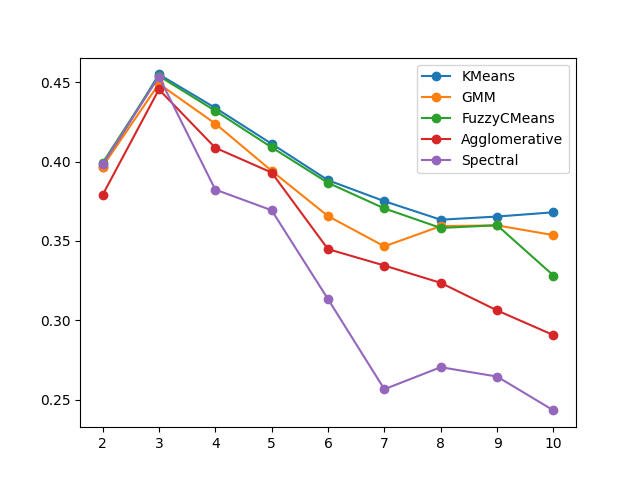
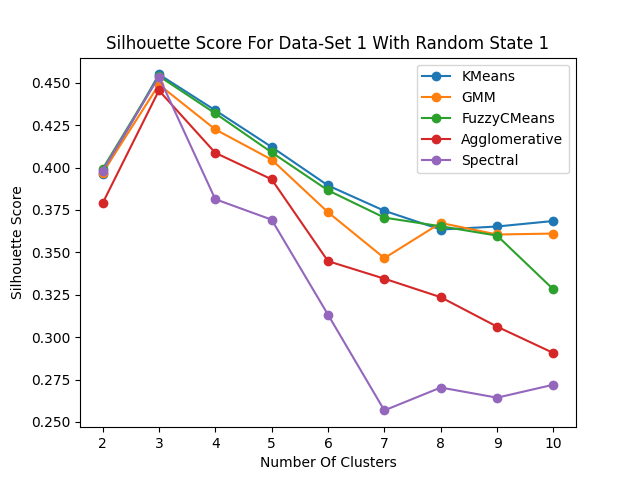
Plots

diff --git a/Code/FitExternalClass.py b/Code/FitExternalClass.py
@@ -1,20 +1,18 @@
 import os
+
+import matplotlib.pyplot as plt
 import pandas as pd
-from DataSet1 import DataSet1
-from DataSet2 import DataSet2
-from DataSet3 import DataSet3
-from GMM import GMMAlgorithm
-from FuzzyCMeans import FuzzyCMeansAlgorithm
-from KMeans import KMeansAlgorithm
-from AgglomerativeClustering import AgglomerativeClusteringAlgorithm
-from SpectralClustering import SpectralClusteringAlgorithm
+
+import ClusteringAlgorithms
+import DataSets
 import GlobalParameters
+
 
 class FitExternalClass():
 
-    def __init__(self, loadData, clusteringAlgorithms, randomStates):
+    def __init__(self, loadData, randomStates, clusteringAlgorithms=None):
         self.loadData = loadData
-        self.clusteringAlgorithms = clusteringAlgorithms
+        self.clusteringAlgorithms =  ClusteringAlgorithms.clusteringAlgorithmsList if clusteringAlgorithms is None else clusteringAlgorithms
         self.randomStates = randomStates
 
     def createCSV(self):
@@ -24,40 +22,41 @@ class FitExternalClass():
             print(f"Checking {label} Classifier With {nClusters} Clusters")
             result = {}
             for clusteringAlgorithm in self.clusteringAlgorithms:
-                result[clusteringAlgorithm.name] = clusteringAlgorithm.checkAgainstExternalClass(
-                    self.randomStates, content)
-                
-            result = pd.DataFrame(result)
-            maxList = result.idxmax(axis=1)
-            minList = result.idxmin(axis=1)
-            result['Max'] = maxList
-            result['Min'] = minList
+                clusteringAlgorithm.setDataFrame(self.loadData.getDataFrame())
+                result[clusteringAlgorithm.name] = clusteringAlgorithm.checkAgainstExternalClass(self.randomStates, content)
             
-
-            # ---------- Save results in a CSV file ----------
+            # ---------- Results into a DataFrame and add min and max columns ----------
+            resultDF = pd.DataFrame(result)
+            maxList = resultDF.idxmax(axis=1)
+            minList = resultDF.idxmin(axis=1)
+            resultDF['Max'] = maxList
+            resultDF['Min'] = minList
+            
+            # ---------- Make Directory ----------
             directory = os.path.join(os.getcwd(), f"Results\\Dataset{self.loadData.getDatasetIndex()}\\ExternalLabels")
             try:
                 os.makedirs(directory)
             except FileExistsError:
                 pass
-            result.to_csv(directory+f"\\{label}ClassifierWith{nClusters}ClustersAnd{len(self.randomStates)}RandomStates.csv")
+
+
+            # ---------- Save results in a CSV file ----------
+            resultDF.to_csv(directory+f"\\{label}ClassifierWith{nClusters}ClustersAnd{len(self.randomStates)}RandomStates.csv")
+
+            # ---------- Save bar plot ----------
+            algoNameAverageFitDict = {name:fitmentDict['Average'] for name, fitmentDict in result.items()}
+            fig, ax = plt.subplots(figsize=(10, 8))
+            ax.bar(list(algoNameAverageFitDict.keys()),algoNameAverageFitDict.values())
+            fig.suptitle(f"Average Of Kullback-Leibler Divergence Between Prediction Labels And External \n '{label}' Classifier With {nClusters} Clusters For Data-Set {self.loadData.getDatasetIndex()} Across {len(self.randomStates)} Random States")
+            fig.savefig(directory + f"\\{label}ClassifierWith{nClusters}ClustersAnd{len(self.randomStates)}RandomStates.png")
+            plt.close()
 
 
 
-dataSetList = [DataSet1(), DataSet2(), DataSet3()]
+for ld in DataSets.dataSetList[2:]:
 
-# for ld in loadDataList[2:]:
-for ld in dataSetList:
     ld.prepareDataset()
     print(f"Running On Dataset {ld.getDatasetIndex()}")
-    clusteringAlgorithms = [
-        KMeansAlgorithm(dataFrame=ld.getDataFrame()),
-        GMMAlgorithm(dataFrame=ld.getDataFrame()),
-        FuzzyCMeansAlgorithm(dataFrame=ld.getDataFrame()),
-        AgglomerativeClusteringAlgorithm(dataFrame=ld.getDataFrame()),
-        SpectralClusteringAlgorithm(dataFrame=ld.getDataFrame())
-    ]
-
-    # fec = FitExternalClass(ld, clusteringAlgorithms[0:2], GlobalParameters.randomStates[0:2])
-    fec = FitExternalClass(ld, clusteringAlgorithms, GlobalParameters.randomStates)
+    
+    fec = FitExternalClass(ld, GlobalParameters.randomStates[0:2])
     fec.createCSV()

diff --git a/Code/DataSet.py b/Code/DataSet.py
@@ -3,26 +3,22 @@ from PCA import PCAAlgorithm
 
 
 class DataSet:
-    def __init__(self, path: str, seperator: str, datasetIndex: int, nrows: int = None, dimReductionAlgorithm=None):
+    def __init__(self, path: str, seperator: str, datasetIndex: int, dimReductionAlgorithm=PCAAlgorithm()):
         self.path = path
         self.seperator = seperator
         self.dataFrame = None
-        self.nrows = nrows
         self.groundTruthColumns = []
         self.groundTruth = None
         self.datasetIndex = datasetIndex
         self.dimReductionAlgorithm = dimReductionAlgorithm
 
     def _loadCSV(self): # protected
-        self.dataFrame = pd.read_csv(
-            self.path, sep=self.seperator, nrows=self.nrows)
+        self.dataFrame = pd.read_csv(self.path, sep=self.seperator)
 
     def prepareDataset(self):
         pass
 
     def _reduceDimensions(self):
-        if self.dimReductionAlgorithm is None:
-            self.dimReductionAlgorithm = PCAAlgorithm()
         self.dimReductionAlgorithm.reduceDimensions(self.dataFrame)
         self.dataFrame = self.dimReductionAlgorithm.getDataFrame()
 
@@ -31,7 +27,7 @@ class DataSet:
             self.prepareDataset()
         return self.dataFrame
 
-    def getGroundTruth(self) -> pd.DataFrame:
+    def getGroundTruth(self) -> pd.DataFrame: 
         return self.groundTruth
 
     def getDatasetIndex(self) -> int:

diff --git a/Code/DataSet2.py b/Code/DataSet2.py
@@ -8,7 +8,7 @@ set2Path = GlobalParameters.set2Path
 class DataSet2(DataSet):
 
     def __init__(self, nrows=None):
-        super().__init__(path=set2Path, seperator=",", datasetIndex=2, nrows=nrows)
+        super().__init__(path=set2Path, seperator=",", datasetIndex=2)
         self.groundTruthColumns = ['race', 'gender']
 
     def prepareDataset(self):
@@ -16,7 +16,7 @@ class DataSet2(DataSet):
         columnsToDelete = ['encounter_id', 'patient_nbr', 'payer_code']
         allNumberColumns = ['admission_type_id', 'discharge_disposition_id', 'admission_source_id', 'time_in_hospital', 'num_lab_procedures',
                             'num_procedures', 'num_medications', 'number_outpatient', 'number_emergency', 'number_inpatient', 'number_diagnoses']
-        self.dataFrame = pd.read_csv(self.path, sep=self.seperator, nrows=self.nrows, na_values="?")
+        self.dataFrame = pd.read_csv(self.path, sep=self.seperator, na_values="?")
 
         # We'll subsample the data due to runtime and memory issues. We want about 10,000 points/rows.
         numColumns = len(self.dataFrame.columns)

diff --git a/Code/DataSet1.py b/Code/DataSet1.py
@@ -6,8 +6,8 @@ set1Path = GlobalParameters.set1Path
 
 class DataSet1(DataSet):
 
-    def __init__(self, nrows=None):
-        super().__init__(path=set1Path, seperator=",", datasetIndex=1, nrows=nrows)
+    def __init__(self):
+        super().__init__(path=set1Path, seperator=",", datasetIndex=1)
         self.groundTruthColumns = ['VisitorType', 'Weekend', 'Revenue']
     
     def prepareDataset(self):
@@ -35,7 +35,7 @@ class DataSet1(DataSet):
         }
 
         self.dataFrame = pd.read_csv(
-            self.path, sep=self.seperator, nrows=self.nrows, converters={'Month': lambda x: monthNumberDict[x], 'VisitorType': lambda x: visitorTypeDict[x]})
+            self.path, sep=self.seperator, converters={'Month': lambda x: monthNumberDict[x], 'VisitorType': lambda x: visitorTypeDict[x]})
         trueFalseColumns = ['Weekend', 'Revenue']
         for c in trueFalseColumns:
             self.dataFrame[c] = self.dataFrame[c].astype(int)

diff --git a/Code/KMeans.py b/Code/KMeans.py
@@ -6,8 +6,7 @@ from ClusterAlgorithm import ClusterAlgorithm
 class KMeansAlgorithm(ClusterAlgorithm):
     def __init__(self, nClusters=None, randomState=None, dataFrame=None):
         super().__init__(nClusters, randomState, dataFrame=dataFrame)
-        self.algorithmObject = KMeans(
-            n_clusters=self.nClusters, random_state=self.randomState) # all the parameters we need and learned in class.
+        self.algorithmObject = KMeans(n_clusters=self.nClusters, random_state=self.randomState) # all the parameters we need and learned in class.
         self.name = "KMeans"
 
 

diff --git a/Code/OptimalNClusters.py b/Code/OptimalNClusters.py
@@ -60,6 +60,9 @@ class OptimalNClusters():
             plt.plot(nClustersRange, sillScoreList, 'o-', label=name)
             algoNameMaxScoreDict[name] = nClustersRange[np.argmax(sillScoreList)]
         plt.legend()
+        plt.title(f"Silhouette Score For Data-Set {dataset.getDatasetIndex()} With Random State {randomState}")
+        plt.xlabel("Number Of Clusters")
+        plt.ylabel("Silhouette Score")
 
         # ---------- Save Plot ----------
         directory = os.path.join(os.getcwd(), f"Results\\Dataset{dataset.getDatasetIndex()}\\OptimalNClusters")

diff --git a/Code/DataSet3.py b/Code/DataSet3.py
@@ -4,8 +4,8 @@ set3Path = GlobalParameters.set3Path
 
 
 class DataSet3(DataSet):
-    def __init__(self, nrows=None):
-        super().__init__(set3Path, ";", datasetIndex=3, nrows=nrows)
+    def __init__(self):
+        super().__init__(set3Path, ";", datasetIndex=3)
         self.groundTruthColumns = ['country'] #47 unique values, about 36 after sampling.
     
     def prepareDataset(self):
